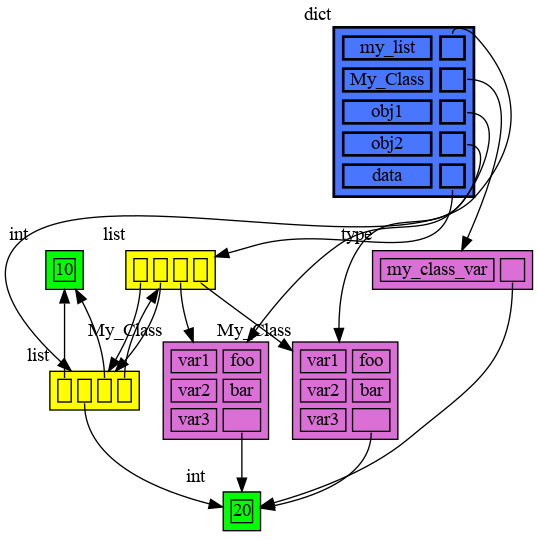
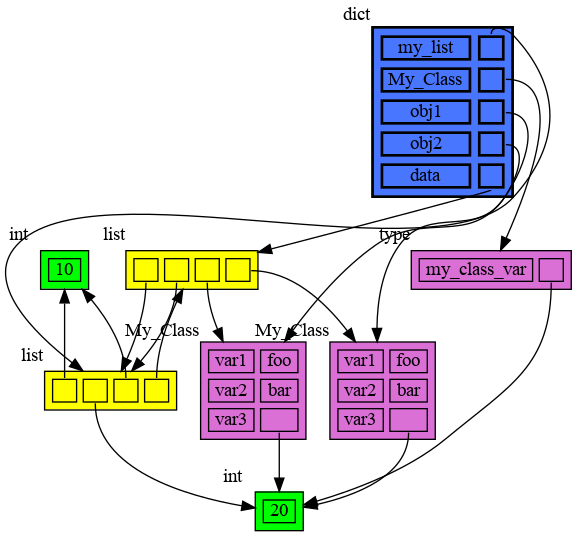
avoid HTML injection

Changed region(s): [[0.0, 0.0, 1.0, 1.0], [0.2677, 0.8889, 0.3569, 0.9185]]

diff --git a/memory_graph/graphviz_nodes.py b/memory_graph/graphviz_nodes.py
@@ -8,11 +8,12 @@ from memory_graph import rewrite
 layout_vertical=True
 type_category_to_color_map={
     "NoneType":"gray", "type":"lime", "bool":"pink", "int":"green", "float":"yellow", "str":"cyan", # fundamental types
-    "tuple":"orange", "list":"brown1", "set":"darkolivegreen1", "frozenset":"darkolivegreen3", "dict":"royalblue1", "mappingproxy":"royalblue3", "class":"orchid" # containers
+    "tuple":"orange", "list":"lightcoral", "set":"darkolivegreen1", "frozenset":"darkolivegreen3", "dict":"royalblue1", "mappingproxy":"royalblue3", "class":"orchid" # containers
 }
 uncategorized_color="red"
 padding=0
 spacing=5
+empty_label="&nbsp;&nbsp;"
 
 
 taken_children=set()
@@ -33,20 +34,20 @@ def get_type_category(node):
 def get_node_name(node):
     return "node"+str(node.get_index())
 
-def add_escape_chars(label):
-    label=label.translate(str.maketrans({"<":  r"\<",
-                                         ">":  r"\>",
-                                         "|":  r"\|",
-                                         "{":  r"\{",
-                                         "}":  r"\}",
-                                         })) # TODO
+def avoid_html_injection(label):
+    label=label.translate(str.maketrans({"<" : r"&lt;",
+                                         ">" : r"&gt;",
+                                         "&" : r"&amp;",
+                                         "\"": r"&quot;",
+                                         "\'": r"&apos;",
+                                         }))
     return label
 
 def get_element_label(element):
     value=element.get_value()
     if value is None:
-        return "&nbsp;&nbsp;"
-    return add_escape_chars(str(value))
+        return empty_label
+    return avoid_html_injection(str(value))
 
 def build_label_line(node,border=1):
     color=type_category_to_color(get_type_category(node))
@@ -54,10 +55,10 @@ def build_label_line(node,border=1):
         if layout_vertical:
             cells="".join( (f'<TR><TD PORT="f{index}"> {get_element_label(element)} </TD></TR>' for index,element in enumerate(node.get_elements())) )
         else:
-            cells="<TR>"+ "".join( (f'<TD PORT="f{index}">{get_element_label(element)}</TD>' for index,element in enumerate(node.get_elements())) ) +"</TR>"
+            cells="<TR>"+ "".join( (f'<TD PORT="f{index}"> {get_element_label(element)} </TD>' for index,element in enumerate(node.get_elements())) ) +"</TR>"
         table=f'<TABLE BORDER="{border}" CELLSPACING="{spacing}" CELLPADDING="{padding}">{cells}</TABLE>'
         return f'<<TABLE BORDER="0" CELLSPACING="0" CELLPADDING="0" BGCOLOR="{color}"><TR><TD PORT="X"> {table} </TD></TR></TABLE>>'
-    return f'<<TABLE BORDER="0" CELLBORDER="1" CELLSPACING="0" CELLPADDING="0" BGCOLOR="{color}"><TR><TD PORT="X"> &nbsp;&nbsp; </TD></TR></TABLE>>'
+    return f'<<TABLE BORDER="0" CELLBORDER="1" CELLSPACING="0" CELLPADDING="0" BGCOLOR="{color}"><TR><TD PORT="X"> {empty_label} </TD></TR></TABLE>>'
     
 def build_label_key_value(node,border=1):
     color=type_category_to_color(get_type_category(node))
@@ -73,7 +74,7 @@ def build_label_key_value(node,border=1):
                 break
             table=f'<TABLE BORDER="{border}" CELLSPACING="{spacing}" CELLPADDING="{padding}" BGCOLOR="{color}">{cells}</TABLE>'
         return f'<<TABLE BORDER="0" CELLSPACING="0" CELLPADDING="0"><TR><TD PORT="X"> {table} </TD></TR></TABLE>>'
-    return f'<<TABLE BORDER="0" CELLBORDER="1" CELLSPACING="0" CELLPADDING="0" BGCOLOR="{color}"><TR><TD PORT="X"> &nbsp;&nbsp; </TD></TR></TABLE>>'
+    return f'<<TABLE BORDER="0" CELLBORDER="1" CELLSPACING="0" CELLPADDING="0" BGCOLOR="{color}"><TR><TD PORT="X"> {empty_label} </TD></TR></TABLE>>'
     
 def get_node_label(node,border=1):
     if rewrite.is_dict_type(node.get_original_data()) or rewrite.is_type_with_dict(node.get_original_data()):
